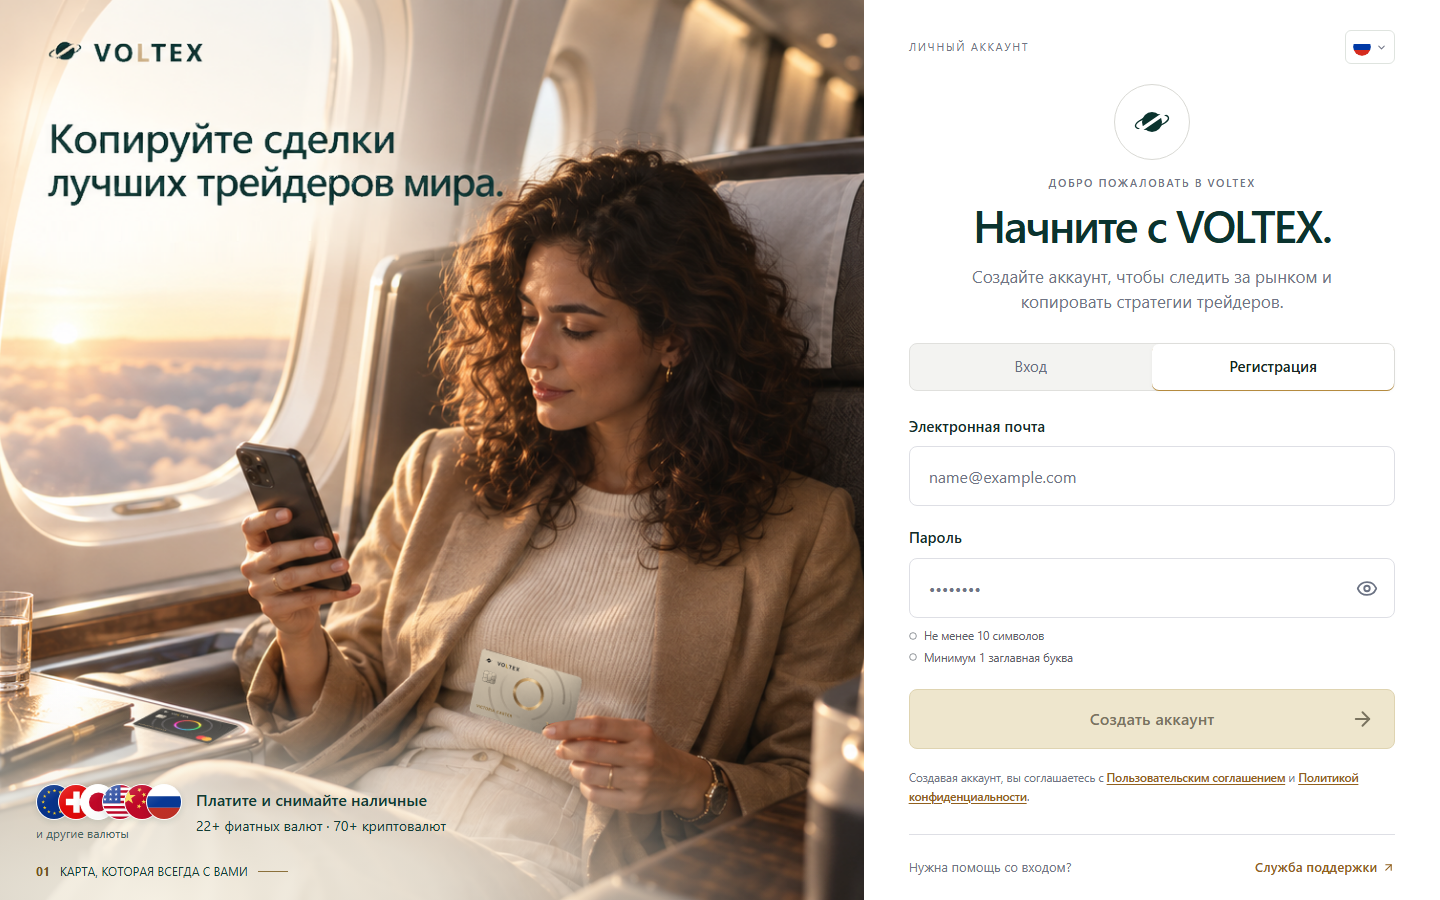
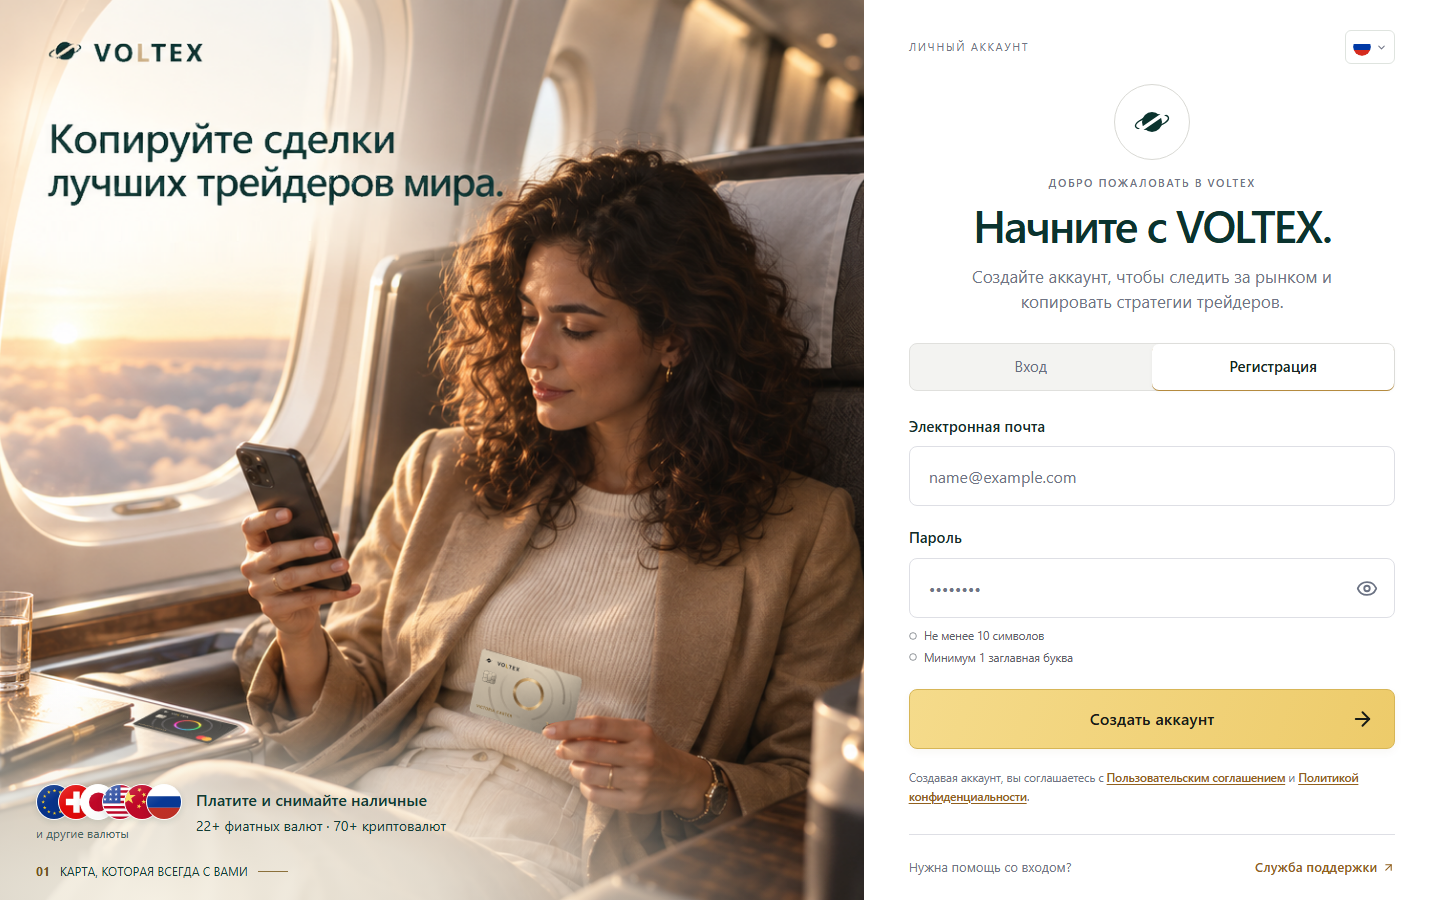
fix(auth): keep registration button saturated gold during validation

Changed region(s): [[0.625, 0.7467, 0.9688, 0.84]]

diff --git a/frontend/src/lib/__tests__/authBusinessClassVisual.test.ts b/frontend/src/lib/__tests__/authBusinessClassVisual.test.ts
@@ -141,8 +141,17 @@ describe('business-class visual preserves reviewed authentication', () => {
   });
 
   test('premium form is native CSS, keeps warning/error/focus/disabled states and adds no images', () => {
-    // Geometry follow-up must not restyle the accepted real form.
[1 lines of base64/hex data omitted]
+    // Owner-approved registration color is the only exception to the original
+    // form fingerprint; existing validation, focus and all other styles stay locked.
+    const preservedPremiumCSS = premiumCSS.replace(
+      '/* Keep registration gold while its existing validation disables submission. */\n' +
+      '.vx-auth .vx-auth-form:has(#reg-email) .vx-auth-submit:disabled {\n' +
+      '  border-color: #d7b656;\n' +
+      '  background: linear-gradient(110deg, #f5db8b, #edcb6a);\n' +
+      '  color: #171b17;\n' +
+      '  box-shadow: 0 3px 8px #6651190c;\n' +
+      '}\n', '');
[1 lines of base64/hex data omitted]
     expect(premiumCSS).not.toMatch(/url\(|opacity:\s*0\b|pointer-events:\s*none/);
     expect(premiumCSS).toContain('.vx-auth .vx-auth-input.vx-auth-input-error');
     expect(premiumCSS).toContain('.vx-auth .vx-auth-input.vx-auth-input-warn');

diff --git a/frontend/src/pages/auth-shell/auth-form-premium.css b/frontend/src/pages/auth-shell/auth-form-premium.css
@@ -144,6 +144,13 @@
   color: #79735f;
   box-shadow: none;
 }
+/* Keep registration gold while its existing validation disables submission. */
+.vx-auth .vx-auth-form:has(#reg-email) .vx-auth-submit:disabled {
+  border-color: #d7b656;
+  background: linear-gradient(110deg, #f5db8b, #edcb6a);
+  color: #171b17;
+  box-shadow: 0 3px 8px #6651190c;
+}
 .vx-auth .vx-auth-support {
   flex-wrap: wrap;
   margin-top: 28px;

diff --git a/docs/AI_HANDOFF.md b/docs/AI_HANDOFF.md
@@ -5868,3 +5868,9 @@ Validation: full frontend218 suites /3,787 passed /6existing skipped; mocked bac
 - Lower benefit block now has six local SVG examples, EUR/CHF/JPY/USD/CNY/RUB, with consistent circular clips, thin light rims, soft individual shadows and regular overlap. Added a localized “и другие валюты” hint in all seven languages so the six examples cannot be mistaken for the entire 22+ selection. Existing 22+/70+ owner-provided copy and static 01/card caption retained; no investor count, overall panel, new API or dependency.
 - Wide desktop uses 36px circles/14px overlap; compact desktop uses 34px/16px with readable 15/13px copy to remain between the protected black card and hand. Mobile uses 34px/12px, hint beside the single flag row and copy below. The existing post-form placement remains. Localized captions use available width before wrapping. Photo, form, auth behavior and original bottom scrim unchanged.
 - Final local frontend TypeScript/build PASS (existing bundle-size warning); six focused suites/177 tests PASS. Built-browser QA PASS: 38 route/locale/device cases, 12 resize/zoom-reflow cases, two high-DPI details and three behavior/error scenarios with four intercepted fixture requests. Zero unexpected errors, failed requests, denied external requests or forwarded writes. Original source hashes and protected-region/readability checks retained. Updated six real screenshots; new exact-head remote CI is required after push, not the prior head's PASS.
+
+## Codex — 2026-10-07 — PR #472 registration gold and authorized frontend publication
+- Owner approved the shown design, requested the same saturated gold registration button, and explicitly authorized publication on the exchange. Fresh main `8cbb74becc694ef29b90691d3f472390f2a1a413`, PR head `4d4c49d43d98b39908884d9568d497754fb7c399`, mergeable with no review threads; all 18 baseline checks green. New-head checks remain required, not substituted by this baseline.
+- Added one registration-only disabled-button color override matching the original enabled gold palette. No handler, disabled attribute, auth source, validation, photo, other form style or global style changed. Preservation fingerprint permits only this exact rule; browser checks additionally compare empty/invalid/valid palettes while retaining submission-validity assertions.
+- Local two preservation suites/36 tests and frontend build PASS (existing bundle-size warning). Actual built-browser QA PASS: 38 route/locale/device cases, 12 resize/zoom-reflow cases, two detail crops and three fixture behavior/error scenarios; zero unexpected errors, failed/denied requests or forwarded writes. Register desktop/mobile screenshots refreshed.
+- Read-only Cloudflare preflight verified existing Wrangler access, Git integration with this repository, production branch main, enabled production Git deployments and canonical production SHA matching fresh main. Will use the existing automatic frontend publication after green exact-head merge, with no extra manual deployment, backend/Worker/Hetzner/DB changes or production signup.

diff --git a/docs/qa/auth-business-class/README.md b/docs/qa/auth-business-class/README.md
@@ -2,7 +2,9 @@
 
 Follow-up branch `codex/auth-fiat-flags-copy` from main
 `8cbb74becc694ef29b90691d3f472390f2a1a413`, after #466 was merged externally.
-The owner authorized a new narrow PR, not merge or production deployment.
+The owner initially authorized a review-only narrow PR, then explicitly approved
+publication after reviewing the complete design and requesting a saturated
+registration button. Final exact-head checks remain required before merge.
 
 Russian Login and Register now use only the left 919 x 941 crop of the approved
 `voltex-premium-gold-button-v6.png`. This supersedes the earlier real-photo/RU
@@ -116,6 +118,14 @@ Photo assets, form geometry and the existing bottom scrim are unchanged.
 
 ## Publication boundary
 
-This is review, not production. Russian artwork provenance and the retained
-non-Russian photograph's licensing notes are recorded in
-`frontend/public/auth/README.md`. Owner approval is required before publication.
+The owner has authorized merge and frontend publication of PR #472. Russian
+artwork provenance and the retained non-Russian photograph's licensing notes
+are recorded in `frontend/public/auth/README.md`. No backend, Worker, database
+or infrastructure deployment is part of this change.
+
+Registration now keeps the existing enabled button's gold gradient, border,
+text and shadow even when validation disables submission. The disabled
+attribute and all auth behavior remain unchanged. Browser checks compare the
+empty, invalid and valid registration palettes, and still require disabled
+empty/invalid submission and enabled valid submission. Updated Register
+screenshots show the actual built page, not a mockup.
